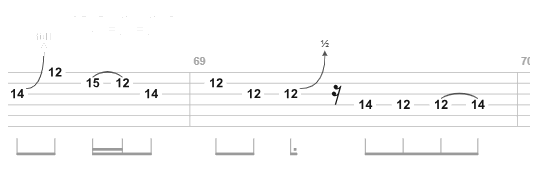
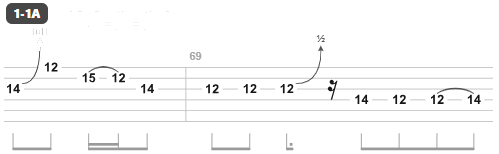
Replace Iron Man IM-1-1A crop; cache bump v235 (#20)

diff --git a/index.html b/index.html
@@ -6668,7 +6668,7 @@ function pullPlayQueue() {
 }
 function openPlayWindow() {
   var base = location.href.split("?")[0].split("#")[0];
-  var url = base + "?playboard=1&v=234";
+  var url = base + "?playboard=1&v=235";
   /* Centered popup window (not a tab) — no LL resize/move */
   var availL = (window.screen && typeof screen.availLeft === "number") ? screen.availLeft : 0;
   var availT = (window.screen && typeof screen.availTop === "number") ? screen.availTop : 0;
@@ -6697,7 +6697,7 @@ function openPlayWindow() {
     return null;
   }
   try {
-    if (w.location && w.location.href && w.location.href.indexOf("playboard=1") >= 0 && w.location.href.indexOf("v=234") < 0) {
+    if (w.location && w.location.href && w.location.href.indexOf("playboard=1") >= 0 && w.location.href.indexOf("v=235") < 0) {
       w.location.href = url;
     }
   } catch (e) {}
